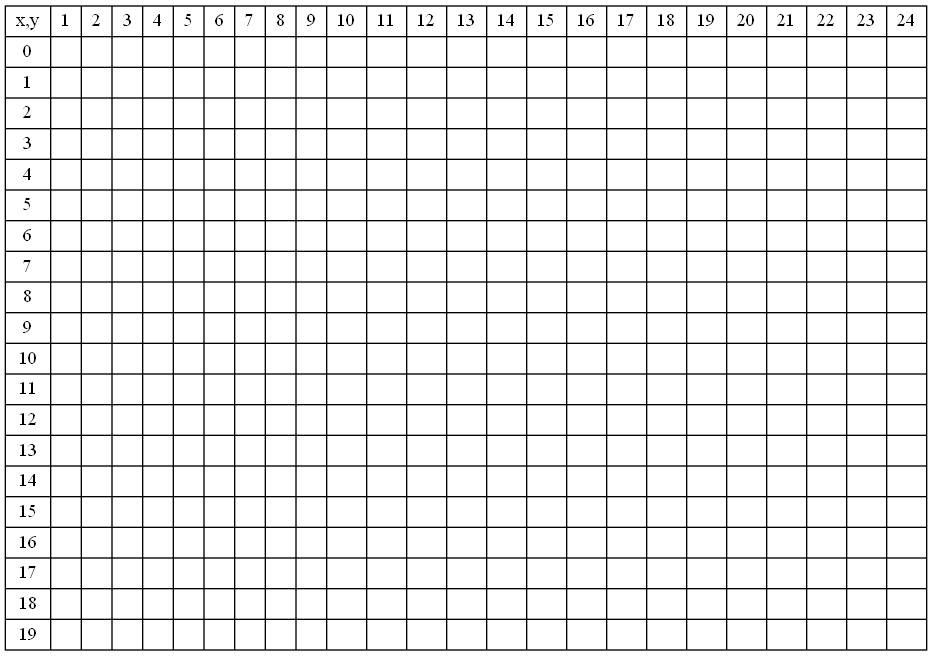
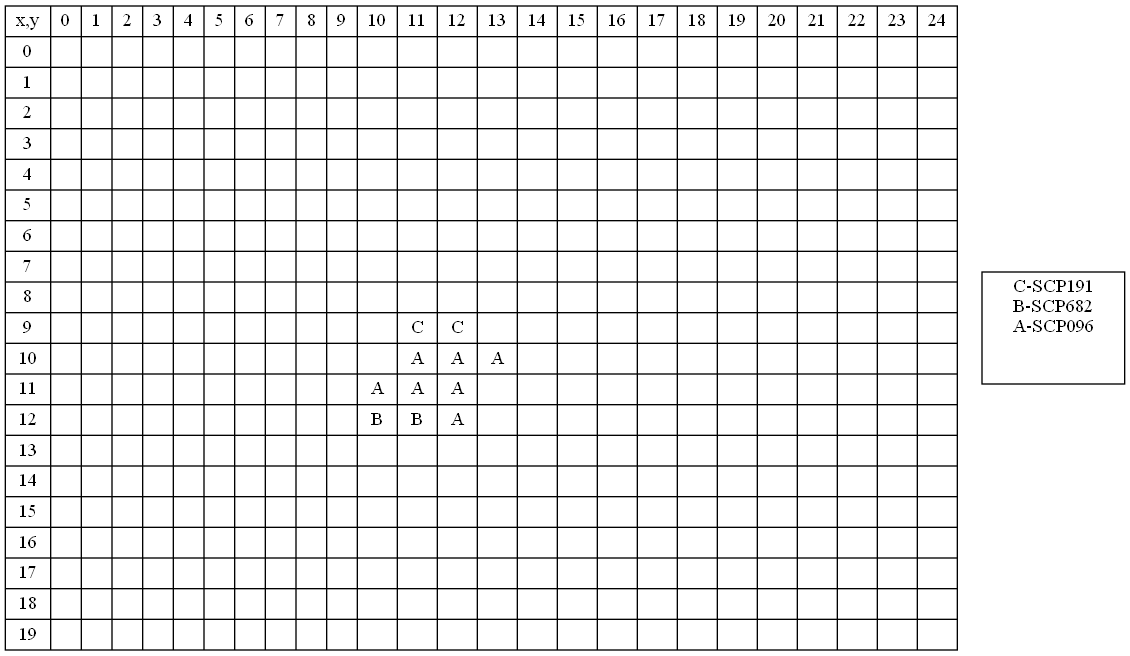
Agregando nueva vista de muestra, ahora se ven los organismos

diff --git a/src/classes/Menu.py b/src/classes/Menu.py
@@ -64,7 +64,7 @@ class Menu:
             self.mostrar()
 
     def procesarInformacion(self,objetoXML):
-
+ 
         coleccionX  = objetoXML.getElementsByTagName('columnas')
         coleccionY  = objetoXML.getElementsByTagName('filas')
         muestra     = objetoXML.getElementsByTagName('muestra')
@@ -79,12 +79,14 @@ class Menu:
 
         organismosXML = objetoXML.getElementsByTagName('organismo')
 
+        letra = 65
         for organismo in organismosXML:
 
             codigo = organismo.childNodes[1].firstChild.data
             nombre = organismo.childNodes[3].firstChild.data
-            nuevoOrganismo = Organismo(codigo,nombre)
+            nuevoOrganismo = Organismo(codigo,nombre,letra)
             nuevaMuestra.listaOrganismos.agregar_al_inicio(nuevoOrganismo)
+            letra = letra + 1
 
         celdasVivasXML = objetoXML.getElementsByTagName('celdaViva')
 
@@ -113,7 +115,7 @@ class Menu:
                     
 
         """
-        cuentaX = 0
+        cuentaX = -1
         cuentaY = -1
         while (cuentaX < int(x)):
             if(cuentaY == -1):
@@ -125,12 +127,37 @@ class Menu:
             
             while (cuentaY < int(y)):
                 
-                if(cuentaX == 0):
+                if(cuentaX == -1):
                     codigoGraphiz=codigoGraphiz+'|'+str(cuentaY)
                 else:
-                    codigoGraphiz=codigoGraphiz+'|'
+                    listaCeldasVivas  = self.muestraAnalizada.listaCeldasVivas
+                    nodoActual = listaCeldasVivas.cabeza
+
+                    codigoOrganismo = ""
+                    while nodoActual != None:
+                       
+                        celdaViva:CeldaViva = nodoActual.dato
+                        coordenadaX = celdaViva.x
+                        coordenadaY = celdaViva.y
+                        
+                        if (int(cuentaX)==int(coordenadaX) and int(cuentaY) == int(coordenadaY)):
+                            
+                            inicio = self.muestraAnalizada.listaOrganismos.cabeza
+                            while(inicio!=None):
+                                organismo:Organismo = inicio.dato
+                                
+                                if(celdaViva.organismo==organismo.codigo):
+                                    codigoOrganismo='|'+chr(organismo.letra)
+                                    break
+                                inicio=inicio.siguiente
+                            break
+                        else:
+                            codigoOrganismo='|'
+                        nodoActual = nodoActual.siguiente
+
+                    codigoGraphiz = codigoGraphiz + codigoOrganismo
                 cuentaY = cuentaY + 1
-            
+                
             cuentaX = cuentaX + 1
             
             if(cuentaX == int(x)):
@@ -140,11 +167,18 @@ class Menu:
 
         codigoGraphiz =codigoGraphiz+ """
                         "];
-            }
+        """
+        inicio = self.muestraAnalizada.listaOrganismos.cabeza
+        codigoGraphiz =codigoGraphiz+"\""
+        while(inicio!=None):
+            organismo:Organismo = inicio.dato
+            codigoGraphiz =codigoGraphiz +chr(organismo.letra)+"-"+organismo.codigo+"\n"
+            inicio=inicio.siguiente
+        codigoGraphiz =codigoGraphiz+ """
+                        \"}     
         """
         archivo = open("./img/muestra.txt","w")
         archivo.write(codigoGraphiz)
         print("Creando imagen...")
         system("\"D:\\USAC\\2023 Semestre 1\\IPC 2 AUXILIATURA\\Ejemplos Practicos\\[IPC2]Proyecto1_201709144\\src\\img\\generarImagen.bat\"")
-        print("Abriendo imagen...")
-        system("\"D:\\USAC\\2023 Semestre 1\\IPC 2 AUXILIATURA\\Ejemplos Practicos\\[IPC2]Proyecto1_201709144\\src\\img\\muestra.png\"")
+        

diff --git a/src/classes/Organismo.py b/src/classes/Organismo.py
@@ -1,5 +1,6 @@
 class Organismo:
     
-    def __init__(self,codigo,nombre) -> None:
+    def __init__(self,codigo,nombre,letra) -> None:
         self.codigo=codigo
         self.nombre=nombre
+        self.letra=letra
